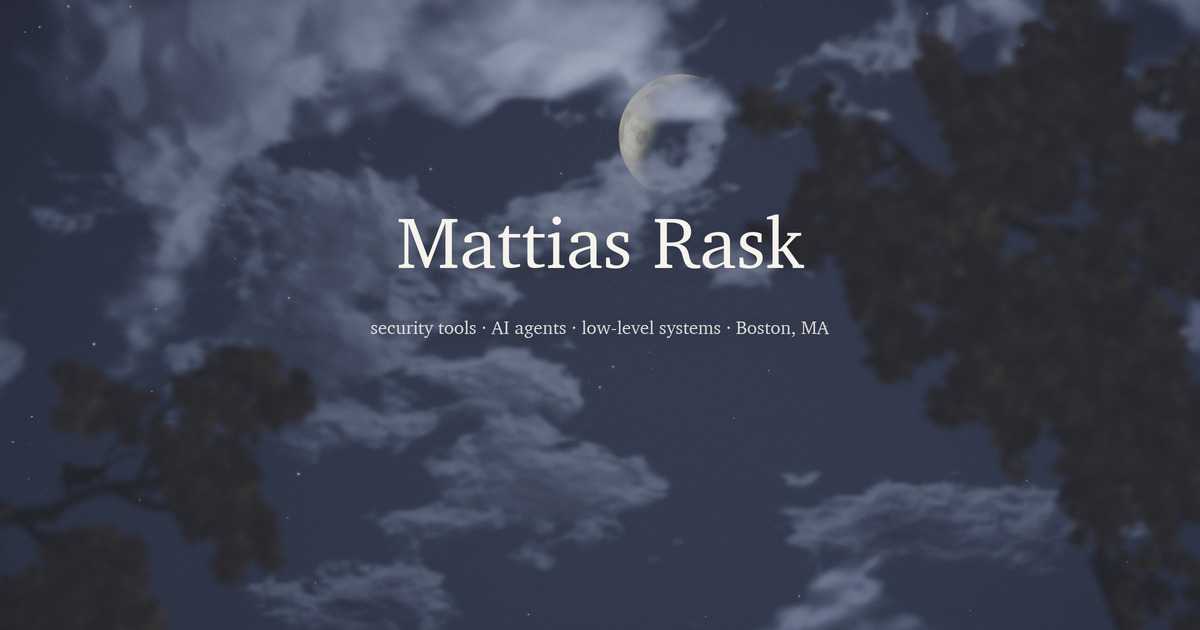
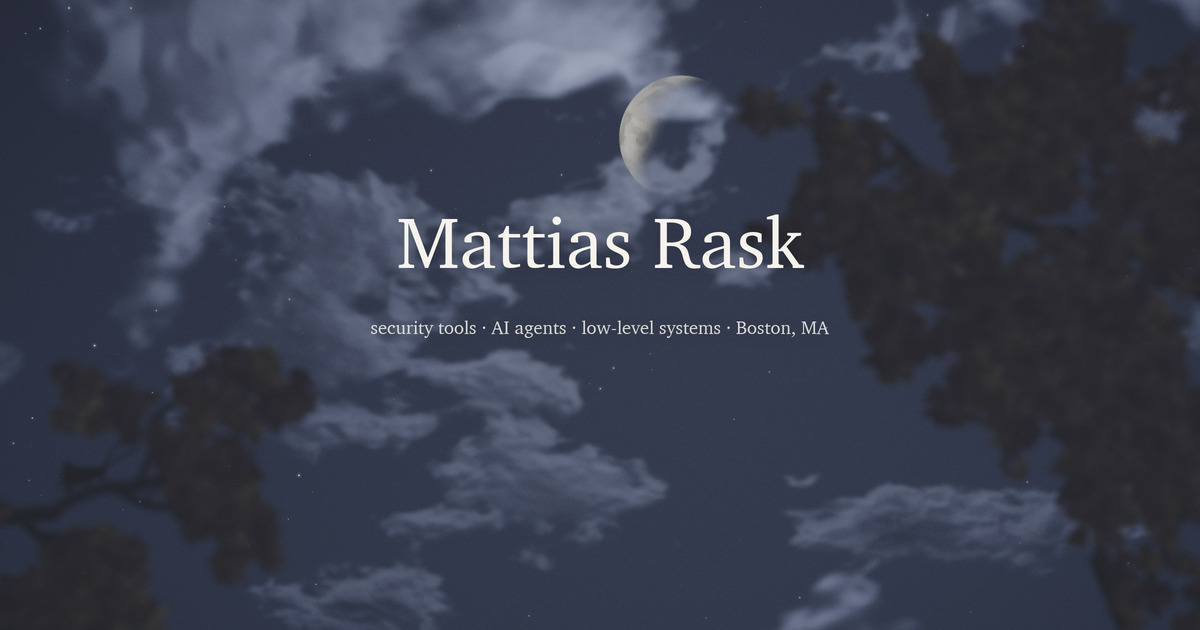
the sky turns with the pointer again, a lighter deck, night card

diff --git a/sky.js b/sky.js
@@ -89,21 +89,21 @@ var PAL = {
     glow: [0.8, 0.76, 0.64], clit: [1.0, 0.82, 0.6], cmid: scene('#d3c9c4'), cshd: scene('#9da0b8'),
     blit: scene('#6e6155'), bdrk: scene('#1c1815'),
     leaf: [['#9a4e2a', '#3e1f12'], ['#cf7f36', '#5c3315'], ['#d6ac48', '#6a541c']],
-    cover: 0.68, expo: 1.0, mgain: 1.0
+    cover: 0.64, expo: 1.0, mgain: 1.0
   },
   dusk: {
     zen: scene('#7180b5'), hor: scene('#d8b09a'), dmid: scene('#e5a778'), dfar: scene('#b79cb4'),
     glow: [1.0, 0.62, 0.36], clit: [1.08, 0.91, 0.78], cmid: scene('#c9a3a9'), cshd: scene('#9c8db0'),
     blit: scene('#735646'), bdrk: scene('#1a1310'),
     leaf: [['#b0562c', '#4a2214'], ['#dd8838', '#603315'], ['#e0b24c', '#6a501c']],
-    cover: 0.68, expo: 1.0, mgain: 1.0
+    cover: 0.64, expo: 1.0, mgain: 1.0
   },
   night: {
     zen: scene('#0a1024'), hor: scene('#1b2439'), dmid: scene('#1e2740'), dfar: scene('#141b30'),
     glow: [0.33, 0.37, 0.48], clit: scene('#5f6a86'), cmid: scene('#2a3149'), cshd: scene('#0b0f1e'),
     blit: scene('#0e1119'), bdrk: scene('#030407'),
     leaf: [['#2e242a', '#08050a'], ['#3b3134', '#0b0808'], ['#403a2e', '#0d0b07']],
-    cover: 0.62, expo: 1.0, mgain: 1.0
+    cover: 0.58, expo: 1.0, mgain: 1.0
   }
 };
 
@@ -1402,9 +1402,10 @@ function draw(now) {
   ld = [ld[0] / ll, ld[1] / ll];
   var aspect = canvas.width / canvas.height;
   var tanH = Math.tan(FOV * FOVK / 2);
-  /* the pointer does not turn the camera: the sky and the moon are far
-     away and hold still, only the crown in front shifts with the viewer */
-  var cam = [tanH * aspect, tanH, PITCH + (still ? 0 : 0.0025 * Math.sin(t * 0.23)), YAW0 + (still ? 0 : 0.003 * Math.sin(t * 0.17 + 1.0))];
+  /* the pointer turns the camera a little and moves the crown the other
+     way, so the sky and the moon slide behind the boughs as the viewer
+     shifts; the still frame holds the camera and lets it breathe */
+  var cam = [tanH * aspect, tanH, PITCH + my * 0.008 + (still ? 0 : 0.0025 * Math.sin(t * 0.23)), YAW0 + mx * 0.010 + (still ? 0 : 0.003 * Math.sin(t * 0.17 + 1.0))];
 
   if (!still) { stepLeaves(t, dt, env, sets[look]); stepEvents(t, w); }
   drawForeground(still ? 0 : t, -mx * FW * 0.012, my * FH * 0.012, w, wind, w.n, env);
